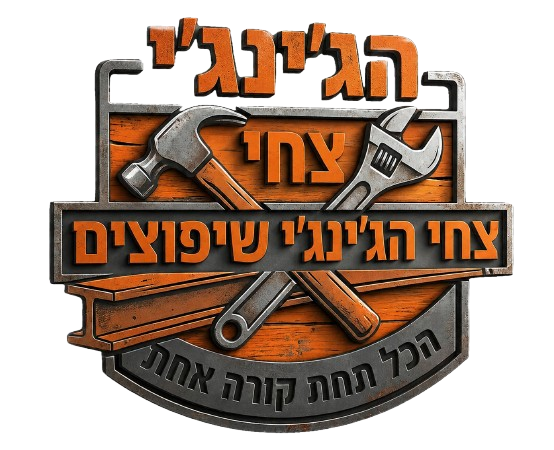
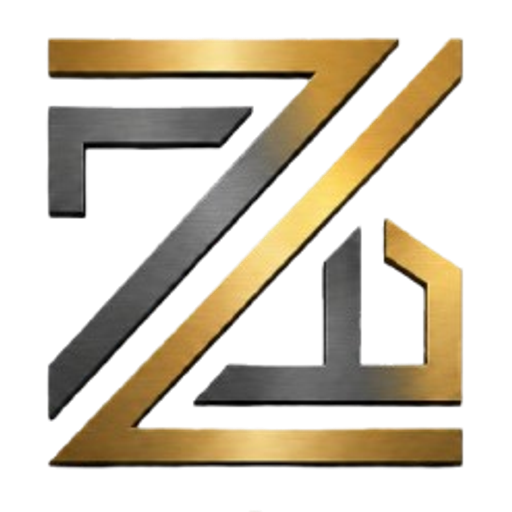
מיתוג מחודש: לוגו חדש, פאביקון, סלוגן אצילי ותמונות
- לוגו LAST_LOGO בהדר/פוטר + פאביקון מחיתוך האמבלם
- גופן אצילי (Frank Ruhl Libre) לסלוגן "הסטנדרט הגבוה שלכם / הביצוע המדויק שלנו"
- סקשן "עליי": פורטרט ME.png עם סלוגן מוטמע (בלי תג ג-100)
- תמונת הירו → NEW_HERO
- קרדיט פוטר: "Powered by" → "Made by"

diff --git a/src/components/about.tsx b/src/components/about.tsx
@@ -14,26 +14,32 @@ export function About() {
   return (
     <section id="about" className="relative overflow-hidden bg-paper py-12 lg:py-24">
       <div className="mx-auto grid max-w-7xl gap-14 px-5 lg:grid-cols-2 lg:items-center lg:px-8">
-        {/* פלייסהולדר פורטרט */}
+        {/* פורטרט צחי + סלוגן מוטמע */}
         <Reveal>
-          <div className="relative">
-            <div className="corner-frame relative aspect-[4/5] overflow-hidden rounded-3xl border border-line shadow-lift">
-              <Image
-                src={site.aboutImage}
-                alt="פרויקט שיפוץ של צחי צדקה"
-                fill
-                sizes="(max-width: 1024px) 100vw, 50vw"
-                className="object-cover"
-              />
-              <div
+          <div className="corner-frame relative aspect-[4/5] overflow-hidden rounded-3xl border border-line shadow-lift">
+            <Image
+              src={site.aboutImage}
+              alt="צחי צדקה — בוני יוקרה"
+              fill
+              sizes="(max-width: 1024px) 100vw, 50vw"
+              className="object-cover"
+            />
+            <div
+              aria-hidden
+              className="absolute inset-0 bg-gradient-to-t from-ink/85 via-ink/20 to-transparent"
+            />
+            {/* סלוגן מוטמע — עיצוב אצילי */}
+            <div className="absolute inset-x-0 bottom-0 px-6 pb-9 pt-24 text-center sm:px-10 sm:pb-11">
+              <span
                 aria-hidden
-                className="absolute inset-0 bg-gradient-to-t from-ink/45 via-transparent to-transparent"
+                className="mx-auto mb-4 block h-px w-20 bg-gradient-to-r from-transparent via-gold to-transparent"
               />
-            </div>
-            {/* תג צף */}
-            <div className="absolute -bottom-5 right-6 rounded-2xl bg-ember px-5 py-4 text-white shadow-lift">
-              <div className="font-display text-2xl leading-none">ג-100</div>
-              <div className="mt-1 text-xs font-bold">רישיון קבלן</div>
+              <p className="font-elegant text-[1.6rem] leading-[1.3] tracking-wide text-white/95 [text-shadow:0_2px_24px_rgba(0,0,0,0.7)] sm:text-3xl lg:text-[2.1rem]">
+                הסטנדרט הגבוה שלכם.
+                <span className="mt-2 block font-bold text-gold">
+                  הביצוע המדויק שלנו.
+                </span>
+              </p>
             </div>
           </div>
         </Reveal>

diff --git a/src/app/layout.tsx b/src/app/layout.tsx
@@ -1,5 +1,5 @@
 import type { Metadata } from "next";
-import { Suez_One, Assistant } from "next/font/google";
+import { Suez_One, Assistant, Frank_Ruhl_Libre } from "next/font/google";
 import "./globals.css";
 import { site } from "@/lib/site";
 
@@ -14,6 +14,14 @@ const assistant = Assistant({
   variable: "--font-assistant",
   subsets: ["hebrew", "latin"],
   weight: ["300", "400", "500", "600", "700", "800"],
+  display: "swap",
+});
+
+// גופן סריף עברי אצילי — לסלוגנים ולמבטאים יוקרתיים
+const frankRuhl = Frank_Ruhl_Libre({
+  variable: "--font-frank",
+  subsets: ["hebrew", "latin"],
+  weight: ["400", "500", "700", "900"],
   display: "swap",
 });
 
@@ -46,7 +54,7 @@ export default function RootLayout({
     <html
       lang="he"
       dir="rtl"
-      className={`${suez.variable} ${assistant.variable} h-full antialiased`}
+      className={`${suez.variable} ${assistant.variable} ${frankRuhl.variable} h-full antialiased`}
     >
       <body className="min-h-full bg-paper text-text">
         <a href="#main" className="skip-link">

diff --git a/src/components/logo.tsx b/src/components/logo.tsx
@@ -15,10 +15,10 @@ export function Logo({
   return (
     <span className={`inline-flex items-center ${className}`}>
       <Image
-        src="/images/LOGO_NEW.png"
-        alt="צחי הג'ינג'י שיפוצים — הכל תחת קורה אחת"
-        width={554}
-        height={450}
+        src="/images/LAST_LOGO.png"
+        alt="צחי צדקה — בוני יוקרה"
+        width={577}
+        height={433}
         priority
         className={imgClassName}
       />

diff --git a/src/lib/site.ts b/src/lib/site.ts
@@ -18,9 +18,9 @@ export const site = {
   email: "[email redacted]",
 
   // תמונת רקע להירו — להחליף בכל נתיב מתוך public/images
-  heroImage: "/images/HERO2.png",
+  heroImage: "/images/NEW_HERO.png",
   // תמונה לסקשן "עליי"
-  aboutImage: "/images/I_AM.png",
+  aboutImage: "/images/ME.png",
 
   areas: [
     "מרכז הארץ",

diff --git a/src/components/site-footer.tsx b/src/components/site-footer.tsx
@@ -101,7 +101,7 @@ export function SiteFooter() {
               className="group flex items-center gap-2 opacity-80 transition-opacity hover:opacity-100"
             >
               <span className="text-[8px] uppercase leading-none tracking-[0.2em]">
-                Powered by
+                Made by
               </span>
               <Image
                 src="/images/pixelia_logo_color.avif"

diff --git a/src/app/globals.css b/src/app/globals.css
@@ -39,6 +39,7 @@
 
   --font-display: var(--font-suez), Georgia, serif;
   --font-body: var(--font-assistant), system-ui, sans-serif;
+  --font-elegant: var(--font-frank), "Frank Ruhl Libre", Georgia, serif;
 
   --shadow-soft: 0 18px 44px -24px rgba(33, 27, 22, 0.28);
   --shadow-lift: 0 28px 60px -26px rgba(33, 27, 22, 0.34);